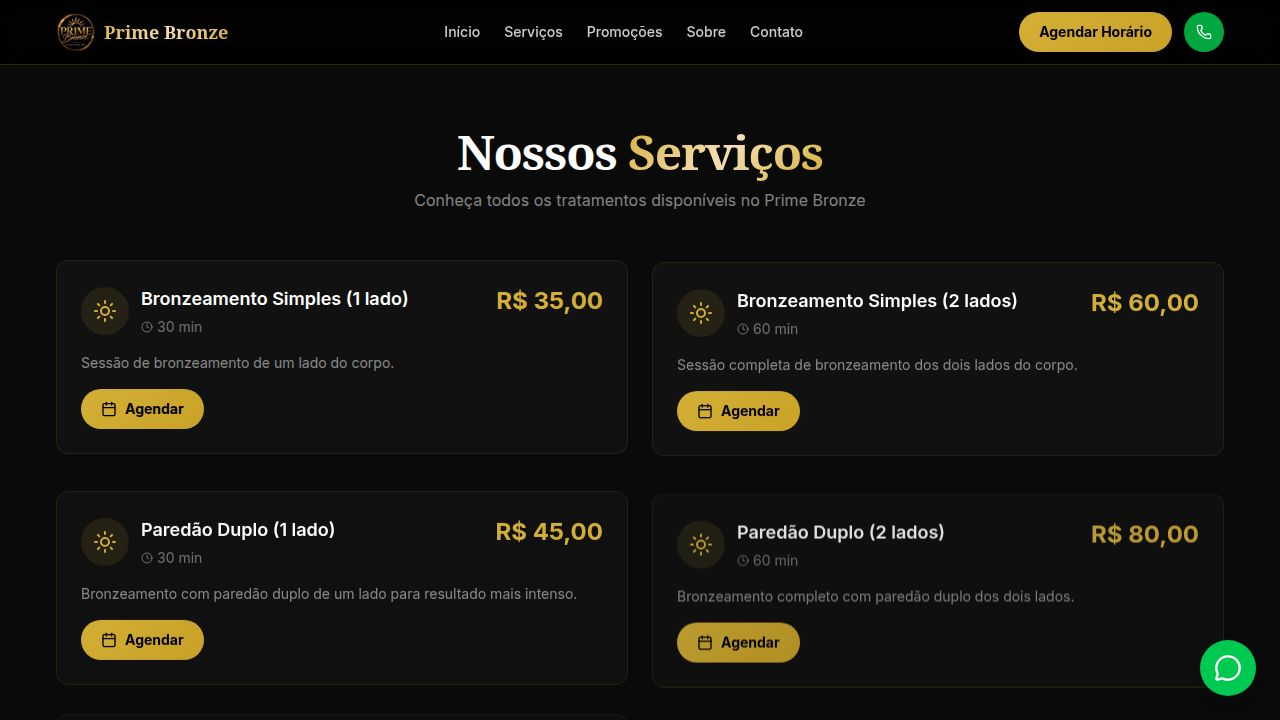
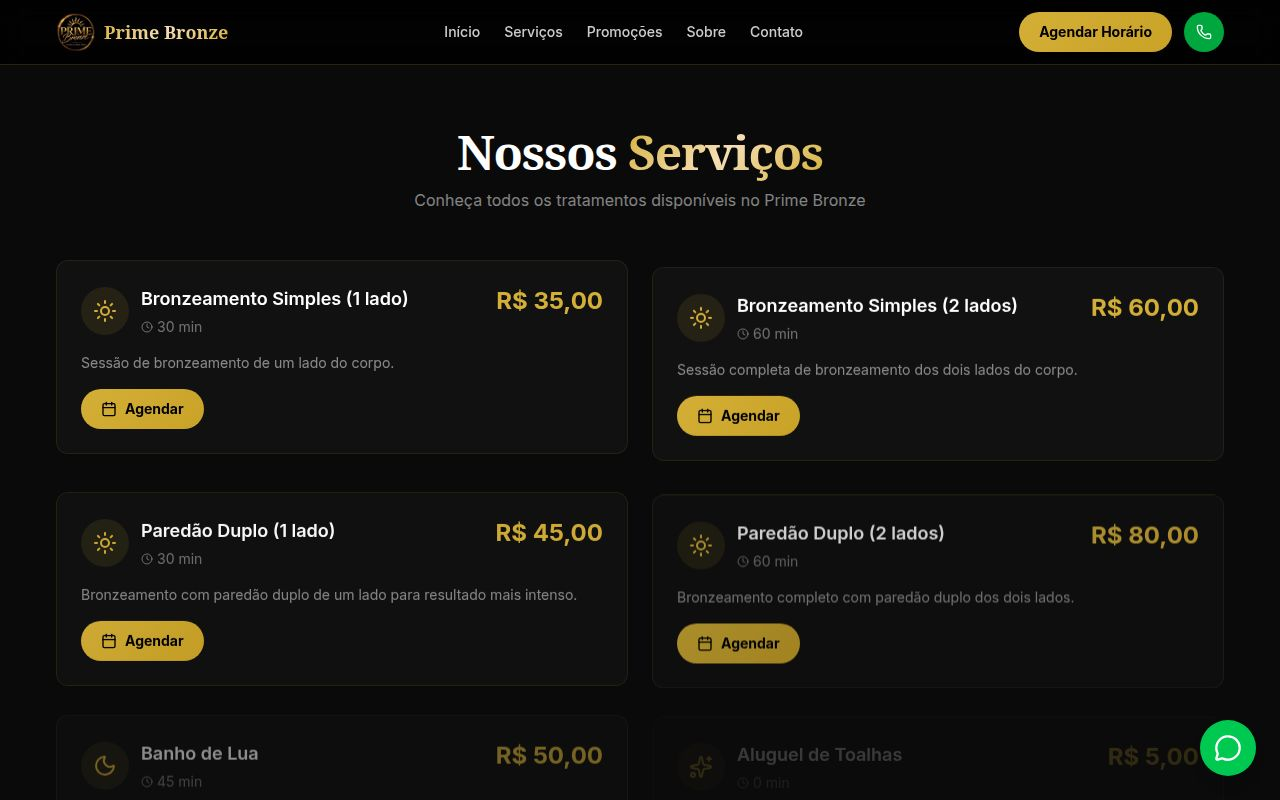
Improve admin area access and security for users
Update admin authentication and authorization logic, ensuring all admin API endpoints are protected and accessible only to logged-in users.

Replit-Commit-Author: Agent
Replit-Commit-Session-Id: 568d3fb8-52bc-4fd6-bb77-02253fd6d76a
Replit-Commit-Checkpoint-Type: full_checkpoint
Replit-Commit-Event-Id: 3374398b-71eb-41fc-ac11-f6354007e1de
Replit-Commit-Screenshot-Url: https://storage.googleapis.com/screenshot-production-us-central1/bbb96734-1a87-4f53-b988-ba0b8cc8a906/568d3fb8-52bc-4fd6-bb77-02253fd6d76a/IarkGJT
Replit-Helium-Checkpoint-Created: true

diff --git a/artifacts/prime-bronze/src/components/layouts/AdminLayout.tsx b/artifacts/prime-bronze/src/components/layouts/AdminLayout.tsx
@@ -14,26 +14,48 @@ const navItems = [
 export function AdminLayout({ children }: { children: React.ReactNode }) {
   const [location, navigate] = useLocation();
   const [sidebarOpen, setSidebarOpen] = useState(false);
-  const [user, setUser] = useState(getUser());
+  const [user, setUser] = useState<ReturnType<typeof getUser>>(null);
+  const [ready, setReady] = useState(false);
 
   useEffect(() => {
     const checkUser = () => {
       const u = getUser();
-      if (!u) {
-        window.location.href = '/admin/login';
-      } else {
-        setUser(u);
-      }
+      setUser(u);
+      setReady(true);
     };
     checkUser();
-    const interval = setInterval(checkUser, 500);
-    return () => clearInterval(interval);
+    const t = setTimeout(checkUser, 200);
+    return () => clearTimeout(t);
   }, []);
 
-  if (!user) {
+  useEffect(() => {
+    const handleStorage = () => {
+      const u = getUser();
+      setUser(u);
+    };
+    window.addEventListener('storage', handleStorage);
+    return () => window.removeEventListener('storage', handleStorage);
+  }, []);
+
+  useEffect(() => {
+    if (ready && !user) {
+      const t = setTimeout(() => {
+        window.location.href = '/admin/login';
+      }, 800);
+      return () => clearTimeout(t);
+    }
+  }, [ready, user]);
+
+  if (!ready || !user) {
     return (
       <div className="min-h-screen bg-black flex items-center justify-center">
-        <div className="w-8 h-8 border-2 border-[#D4AF37] border-t-transparent rounded-full animate-spin" />
+        <div className="text-center">
+          <div className="w-8 h-8 border-2 border-[#D4AF37] border-t-transparent rounded-full animate-spin mx-auto mb-4" />
+          <p className="text-white/60 text-sm">Verificando autenticação...</p>
+          <a href="/admin/login" className="text-[#D4AF37] text-xs hover:underline mt-2 inline-block">
+            Ir para login
+          </a>
+        </div>
       </div>
     );
   }

diff --git a/artifacts/prime-bronze/src/components/admin/services-management.tsx b/artifacts/prime-bronze/src/components/admin/services-management.tsx
@@ -1,6 +1,7 @@
 import { useEffect, useState, useCallback } from 'react';
 import { Plus, Pencil, Trash2, X, Sun, Moon } from 'lucide-react';
 import { toast } from 'sonner';
+import { authHeaders } from '@/lib/auth';
 
 interface Service {
   id: string;
@@ -22,7 +23,7 @@ export function ServicesManagement() {
 
   const fetchServices = useCallback(async () => {
     try {
-      const res = await fetch('/api/admin/services');
+      const res = await fetch('/api/admin/services', { headers: authHeaders() });
       const data = await res.json();
       setServices(data ?? []);
     } catch {
@@ -61,7 +62,7 @@ export function ServicesManagement() {
       const body = editing ? { ...form, id: editing.id } : form;
       const res = await fetch('/api/admin/services', {
         method,
-        headers: { 'Content-Type': 'application/json' },
+        headers: { 'Content-Type': 'application/json', ...authHeaders() },
         body: JSON.stringify(body),
       });
       if (res.ok) {
@@ -81,7 +82,7 @@ export function ServicesManagement() {
     try {
       await fetch('/api/admin/services', {
         method: 'PATCH',
-        headers: { 'Content-Type': 'application/json' },
+        headers: { 'Content-Type': 'application/json', ...authHeaders() },
         body: JSON.stringify({ id: svc.id, active: !svc.active }),
       });
       fetchServices();

diff --git a/artifacts/prime-bronze/src/components/admin/bookings-management.tsx b/artifacts/prime-bronze/src/components/admin/bookings-management.tsx
@@ -1,6 +1,7 @@
 import { useEffect, useState, useCallback } from 'react';
 import { Calendar, Search, Filter, CheckCircle, XCircle, Clock, ChevronDown } from 'lucide-react';
 import { toast } from 'sonner';
+import { authHeaders } from '@/lib/auth';
 
 interface Booking {
   id: string;
@@ -44,7 +45,7 @@ export function BookingsManagement() {
       if (filterType !== 'all') params.set('filter', filterType);
       if (filterStatus !== 'all') params.set('status', filterStatus);
       if (filterDate) params.set('date', filterDate);
-      const res = await fetch(`/api/admin/bookings?${params.toString()}`);
+      const res = await fetch(`/api/admin/bookings?${params.toString()}`, { headers: authHeaders() });
       const data = await res.json();
       setBookings(data ?? []);
     } catch {
@@ -62,7 +63,7 @@ export function BookingsManagement() {
     try {
       const res = await fetch('/api/admin/bookings', {
         method: 'PATCH',
-        headers: { 'Content-Type': 'application/json' },
+        headers: { 'Content-Type': 'application/json', ...authHeaders() },
         body: JSON.stringify({ id, status }),
       });
       if (res.ok) {

diff --git a/artifacts/prime-bronze/src/components/admin/settings-page.tsx b/artifacts/prime-bronze/src/components/admin/settings-page.tsx
@@ -1,6 +1,7 @@
 import { useEffect, useState, useCallback } from 'react';
 import { Settings, Clock, Hash, Save } from 'lucide-react';
 import { toast } from 'sonner';
+import { authHeaders } from '@/lib/auth';
 
 const dayNames = ['Domingo', 'Segunda', 'Terça', 'Quarta', 'Quinta', 'Sexta', 'Sábado'];
 
@@ -27,7 +28,7 @@ export function SettingsPage() {
 
   const fetchData = useCallback(async () => {
     try {
-      const res = await fetch('/api/admin/settings');
+      const res = await fetch('/api/admin/settings', { headers: authHeaders() });
       const data = await res.json();
       setSettings(data?.settings ?? { slotInterval: 30, maxSimultaneous: 2, whatsappNumber: '', address: '' });
       setHours(data?.hours ?? []);
@@ -43,7 +44,7 @@ export function SettingsPage() {
     try {
       const res = await fetch('/api/admin/settings', {
         method: 'PUT',
-        headers: { 'Content-Type': 'application/json' },
+        headers: { 'Content-Type': 'application/json', ...authHeaders() },
         body: JSON.stringify({ settings, hours }),
       });
       if (res.ok) {

diff --git a/artifacts/prime-bronze/src/components/admin/dashboard-page.tsx b/artifacts/prime-bronze/src/components/admin/dashboard-page.tsx
@@ -1,6 +1,7 @@
 import { useEffect, useState } from 'react';
 import { Calendar, Users, DollarSign, TrendingUp, Clock } from 'lucide-react';
 import { motion } from 'framer-motion';
+import { authHeaders } from '@/lib/auth';
 
 interface Stats {
   todayBookings: number;
@@ -26,12 +27,12 @@ export function DashboardPage() {
 
   useEffect(() => {
     Promise.all([
-      fetch('/api/admin/stats').then((r) => r.json()),
-      fetch('/api/admin/bookings?filter=today').then((r) => r.json()),
+      fetch('/api/admin/stats', { headers: authHeaders() }).then((r) => r.json()),
+      fetch('/api/admin/bookings?filter=today', { headers: authHeaders() }).then((r) => r.json()),
     ])
       .then(([s, b]) => {
         setStats(s ?? null);
-        setTodayBookings(b ?? []);
+        setTodayBookings(Array.isArray(b) ? b : []);
       })
       .catch(() => {})
       .finally(() => setLoading(false));

diff --git a/artifacts/prime-bronze/src/components/public/footer.tsx b/artifacts/prime-bronze/src/components/public/footer.tsx
@@ -42,7 +42,7 @@ export function PublicFooter() {
         </div>
 
         <div className="mt-8 pt-6 border-t border-white/10 text-center">
-          <Link href="/admin/login" className="text-xs text-white/30 hover:text-[#D4AF37] transition-colors mb-2 inline-block">
+          <Link href="/admin/login" className="inline-flex items-center gap-2 bg-[#D4AF37]/10 border border-[#D4AF37]/30 text-[#D4AF37] hover:bg-[#D4AF37]/20 px-4 py-2 rounded-lg text-sm font-semibold transition-colors mb-4">
             Área Administrativa
           </Link>
           <p className="text-xs text-white/40">© 2026 Prime Bronze. Todos os direitos reservados.</p>
